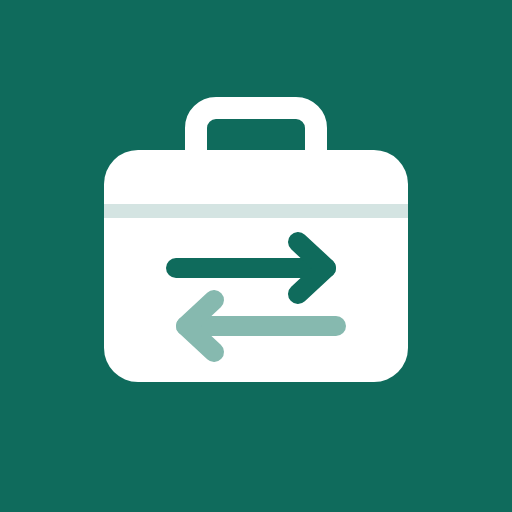
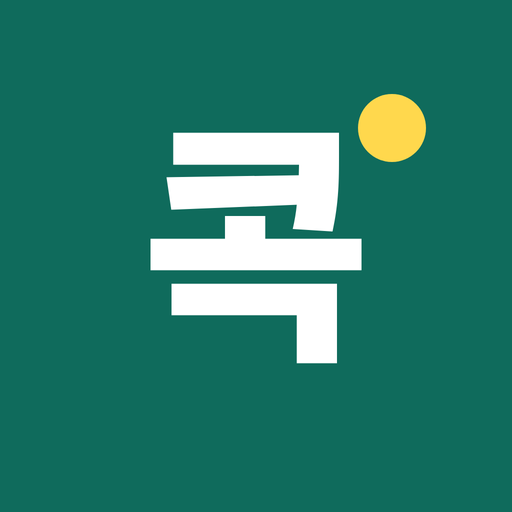
v0.035 앱 아이콘을 '콕' 글자 아이콘으로 변경
Claude-Session: https://claude.ai/code/session_015cNYVCtAQfG5zreiM9AgYM

Changed region(s): [[0.1875, 0.1562, 0.8438, 0.75]]

diff --git a/index.html b/index.html
@@ -269,6 +269,7 @@ const SUPABASE_KEY = "sb_publishable_W5dt6MuskUKETmLtqdxMUg_yYuAnIgy";
 const CHANGELOG = [
   { v: "v0.035", date: "2026-10-29", items: [
     "앱 이름을 ‘데모장비 출납’에서 ‘데모콕’으로 변경 (화면 제목, 로그인 화면, 브라우저 탭, 홈 화면 아이콘 이름)",
+    "앱 아이콘 변경: 초록 바탕에 흰 ‘콕’ 글자와 노란 점 (홈 화면 아이콘, 브라우저 탭 아이콘)",
   ] },
   { v: "v0.034", date: "2026-10-29", db: "012_notify_demo_request.sql", items: [
     "Teams 알림 제목을 ‘새 출납 신청’에서 ‘새 데모 신청’으로 변경 (메뉴 이름과 맞춤)",

diff --git a/CHANGELOG.md b/CHANGELOG.md
@@ -43,6 +43,7 @@
 ## v0.035 · 2026-10-29
 
 - 앱 이름을 ‘데모장비 출납’에서 ‘데모콕’으로 변경 (화면 제목, 로그인 화면, 브라우저 탭, 홈 화면 아이콘 이름)
+- 앱 아이콘 변경: 초록 바탕에 흰 ‘콕’ 글자와 노란 점 (홈 화면 아이콘, 브라우저 탭 아이콘)
 
 ## v0.034 · 2026-10-29
 
